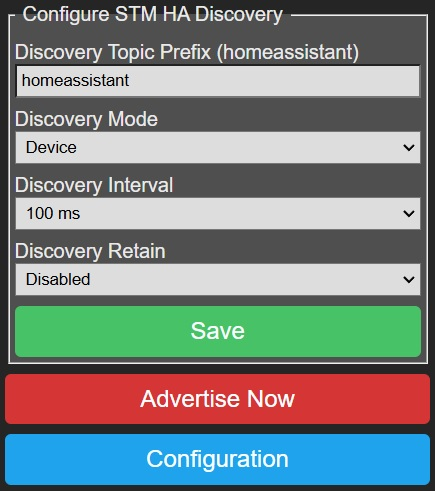
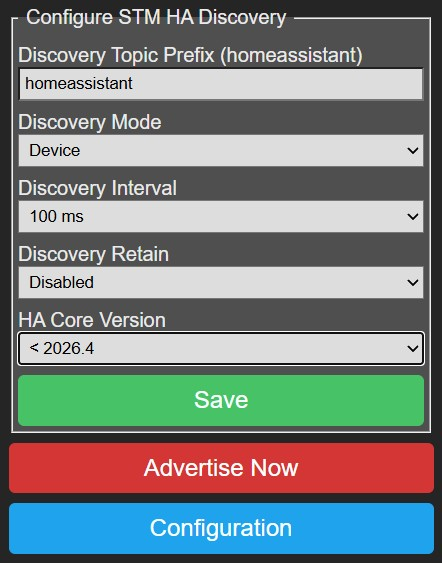
Update docs for v5.x.y

diff --git a/docs/Phc2MqttV5.md b/docs/Phc2MqttV5.md
@@ -397,14 +397,7 @@ Configuration and management of P2M can be done via a web interface by entering 
 The homepage of P2M is the main menu as shown on the right.
 
 Click on a button to enter the related page.
-&nbsp;  
-&nbsp;  
-&nbsp;  
-&nbsp;  
-&nbsp;  
-&nbsp;  
-&nbsp;  
-&nbsp;  
+
 
 ###Configuration
 
@@ -441,11 +434,11 @@ when prompted by the browser, the username is &#39;admin&#39; completed with the
 
 - **MQTT RX Topic Prefix**: Max 31 characters. The MQTT client will subscribe to '&lt;rx-topic-prefix>/#' 
 to receive messages with commands for P2M.  
-We propose to use '&lt;alias>/m2p', where you replace &lt;alias> with a name for your house/location.
+We propose to use '&lt;alias>/m2p', where you replace &lt;alias> with a name for your house/location/device.
 Notice that 'm2p' is choosen intentionally to indicate direction, from MQTT to P2M.  
 
 - **MQTT TX Topic Prefix**: Max 31 characters. This prefix is used when P2M publishes messages to the MQTT broker.  
-We propose to use '&lt;alias>/p2m', where you replace &lt;alias> with a name for your house/location.
+We propose to use '&lt;alias>/p2m', where you replace &lt;alias> with a name for your house/location/device.
 Notice that 'p2m' is choosen intentionally to indicate direction, from P2M to MQTT.
 By using asymetric &lt;rx-topic-prefix> and &lt;tx-topic-prefix> we can avoid receiving the own published messages to &lt;tx-topic-prefix>.
 But you can choose whatever you want.  
@@ -461,7 +454,7 @@ But you can choose whatever you want.
 
 - **Preferred Network Mode**: Here you can select the preferred mode of network connectivity AP/STA/ETH.  
 
-AP mode: P2M will be a standalone access point with SSID set to the Module Device Name. You can connect to it with a Wifi enabled PC.  
+AP mode: P2M will be a standalone access point with SSID set to the Device Name. You can connect to it with a Wifi enabled PC.  
 
 STA mode: P2M will connect to a remote access point and will be available to the whole network. If no Remote AP SSID is specified, P2M will fallback to AP mode.  
 
@@ -562,18 +555,18 @@ to receive messages from the MQTT broker. When SRSD stops it will unsubscribe fr
 
 - **Download Rules**: Allows you to download the active rules file.  
 
-- **Upload & Validate New Rules**: Allows you to load a new set of rules, this is a 2 step procedure. In the first step you select a new rule file
-by pressing 'Choose File', selecting a file and then pressing <b>Start</b>.
+- **Upload & Validate New Rules**: Allows you to load a new set of rules, this is a 2 step procedure.  
 
-During validation the new rule file will be uploaded to a temporary file and parsed for correctness without interfering with the active rules. In a new webpage
+
+Step 1: Upload and validate the new rule file, click 'Choose File', select a file and then press <b>Start</b>.
+Now the new rule file will be uploaded to a temporary file and validated for correctness without interfering with the active rules. In a new webpage
 you will see all lines of the rule file appear with warnings (orange) or errors (red) annotated.
 
-If errors occured in the rule file then you will see only <b>Configure Simple Rule Server</b> button, correct the error in the new rule file, go back and retry validation.
+If errors occured in the rule file, you will see only <b>Configure Simple Rule Server</b> button, correct the error in the new rule file, go back and retry upload & validation.
 
-If no errors occured in the rule file then you will see <b>Configure Simple Rule Server</b> and <b>Activate New Rules</b> buttons.
+If no errors occured in the rule file, you will see <b>Configure Simple Rule Server</b> and <b>Activate New Rules</b> buttons.
 
-If you don't want to activate
-the new rules then go back or press the <b>Configure Simple Rule Server</b> button.
+Step 2: If you don't want to activate the new rules then go back or press the <b>Configure Simple Rule Server</b> button.
 
 If you want to activate the new rules then press the <b>Activate New Rules</b> button,
 now the new rules will be put in service by removing the old rules and replacing them with the new rules. This is a permanent change.
@@ -635,8 +628,8 @@ enter P2M's IP address, press TAB and you should notice that version 3.30 is rep
 Goto the transfer window of the Systemsoftware and press <b>Start</b>, the project data will be transfered to P2M, you can observe this in the <b>Web Console</b>.
 
 The STMD will automatically extract project.ppfx after transferring the project data
-with the Systemsoftware, and will rebuild P2M-list by parsing project.ppfx. It will also generate data describing your PHC 
-system that can be sent out via MQTT so Home Assistant (HA) can discover it (experimental).
+with the Systemsoftware, and will rebuild module-list by parsing project.ppfx. It will also generate data describing your PHC 
+system that can be sent out via MQTT so Home Assistant (HA) can discover it.
 
 &nbsp;
 
@@ -677,7 +670,7 @@ Address 0x00-0x1F : imd
 
 ###Configure STM Reporting
 The STMD reporting sub-system is the one looking at all the packets that are sent over the PHC module bus it is attached to,
-and which reports them in readable format based on P2M-list.
+and which reports them in readable format based on the module-list.
 
 <img style="float:right;width:352px;height:328px" src="../img/p2m-config-repd.jpg"></img>
 
@@ -766,6 +759,9 @@ To see the differences you can later on observe them in the [Web Console](#web-c
 - **Discovery Interval**: The rate at which to publish advertise messages.  
 
 - **Discovery Retain**: Enable/disable the retain flag in the MQTT discovery messages, it is advised to enable retain.  
+
+- **HA Core Version**: Select here the HA core you are using, this to handle interface changes in different versions of HA.
+When you change this parameter you need to re-transfer your project from Systemsoftware to P2M.  
 
 - **Save**: Press this button to save settings.  
 
